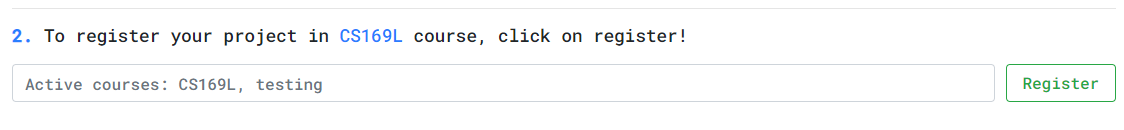
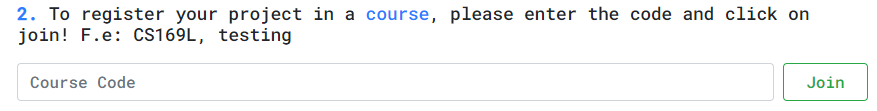
feat: improved join part

diff --git a/README.md b/README.md
@@ -54,7 +54,7 @@ Bear in mind that you might need to wait for the Governify auditor to accept the
 ![Github branch name](https://github.com/governifyauditor/goldenflow-showcase-project/blob/main/img/golden2.PNG?raw=true)
 
 ### Open PR - Finish story
-4. Modify 4 of the branches. 
+4. Modify all the new branches adding some changes to them. 
 5. Open 2 PR of the branches with the Pivotal Tracker story ID on the branch name.
 6. Create another PR using the branch that doesn't have the Pivotal Tracker story ID on it.
 7. Finish the 4 stories on Pivotal Tracker by clicking on the `Finish` button.
@@ -77,6 +77,8 @@ Follow this steps:
 ![Join 2](https://github.com/governifyauditor/goldenflow-showcase-project/blob/main/img/join2.PNG?raw=true)
 
 4. In the input enter a valid course code. Click on Register. If everything is ok, you will see a success and a badge will appear aswell as a markdown for adding it to your repo's README.md file. By clicking on the badge you will access to the dashboard. If you've already registered into the system you should see a message telling you so but the dashboard badge will be given so you can access the dashboard in case you lost it.
+
+![Join 3](https://github.com/governifyauditor/goldenflow-showcase-project/blob/main/img/join3.PNG?raw=true)
 
 The points should appear in 5 minutes or less. If you have any problem when accomplishing this section, you can contact [governify.auditor@gmail.com](mailto:governify.auditor@gmail.com) for troubleshooting.
 
